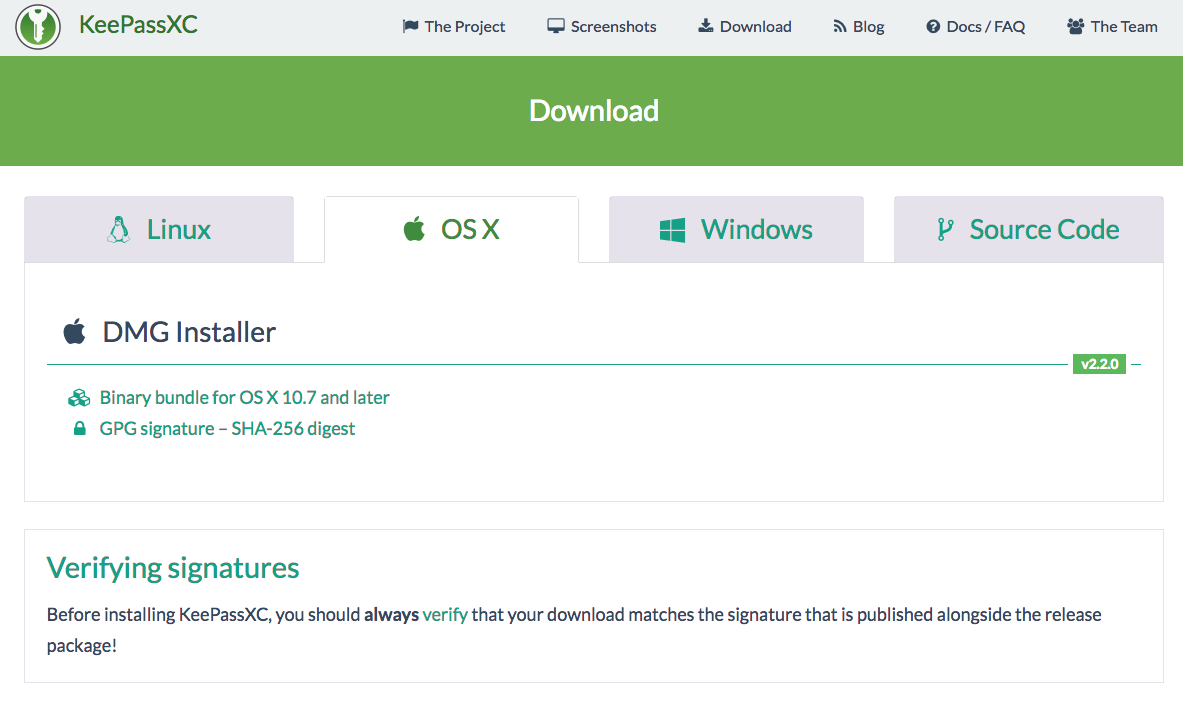
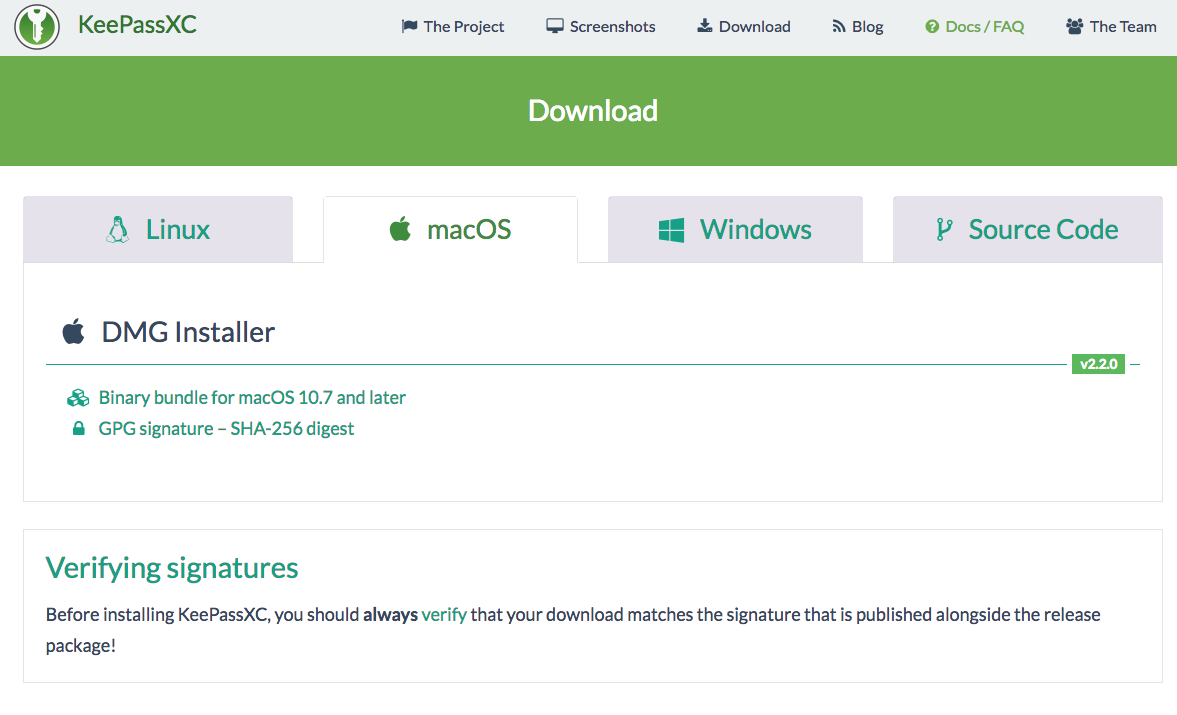
some changes to blog posts, plus updates a keepassxc screenshot

diff --git a/content/post/keepassxc-setup-guide.md b/content/post/keepassxc-setup-guide.md
@@ -11,7 +11,7 @@ draft = false
 
 [KeePassXC](https://keepassxc.org) is a cross-platform, modern open-source password manager. It is a community fork of [KeePassX](https://www.keepassx.org/), a native cross-platform port of [KeePass Password Safe](http://keepass.info/), with the goal to extend and improve it with new features and bug fixes.
 
-This is a basic guide of how to get started with KeePassXC. This guide is **for OS X / macOS users**, though note that KeePassXC is built to work with Linux and Windows as well, and this guide may be helpful for those users too. Note that I'm not a security expert or professional, so buyer beware from this point on. If you spot any errors or have any suggestions for this post, feel free to contact me via [Twitter](https://twitter.com/sts10) or [elsewhere](https://gist.github.com/sts10/4a4e01021b3a5ad42e9b73e0abd7b7e3).
+This is a basic guide of how to get started with KeePassXC. This guide is **for OS X / macOS users** (hereto referred to as "macOS"), though note that KeePassXC is built to work with Linux and Windows as well, and this guide may be helpful for those users too. Note that I'm not a security expert or professional, so buyer beware from this point on. If you spot any errors or have any suggestions for this post, feel free to contact me via [Twitter](https://twitter.com/sts10) or [elsewhere](https://gist.github.com/sts10/4a4e01021b3a5ad42e9b73e0abd7b7e3).
 
 (I'd like to note that I drew some inspiration and methodology from [Martin Shelton's "KeePass for Beginners" post](https://medium.com/@mshelton/keypass-for-beginners-dc8adfcdad54).)
 
@@ -21,9 +21,9 @@ This is a basic guide of how to get started with KeePassXC. This guide is **for 
 
 First, let's head over to the KeePassXC's [Download page](https://keepassxc.org/download).
 
-![KeePassXC Download page, with OS X selected](/img/keepassxc-download-page-screenshot.png)
+![KeePassXC Download page, with macOS selected](/img/keepassxc-download-page-screenshot.png)
 
-Select your desired operating system (the current options are Linux, OS X, and Windows), or to compile KeePassXC from source code. If we're using Mac (OS X), we'll go to the "OS X" tab and click the link labeled "Binary bundle for OS X 10.7 and later" to download the latest OS X release of KeePassXC to our computer.
+Select your desired operating system (the current options are Linux, macOS, and Windows), or to compile KeePassXC from source code. If we're using macOS, we'll go to the "macOS" tab and click the link labeled "Binary bundle for macOS 10.7 and later" to download the latest macOS release of KeePassXC to our computer.
 
 ### Verifying our Download
 
@@ -31,7 +31,7 @@ Before you install KeePassXC from this downloaded file, it is recommended that y
 
 You can learn how to verify your download on [the Verifying Signatures page](https://keepassxc.org/verifying-signatures) of the KeePassXC website.
 
-### Installing KeePassXC on mac OS/OS X
+### Installing KeePassXC on macOS
 
 Now that we're downloaded and verified our .dmg file, simply double click it to mount the disk image.  Next drag the KeePassXC icon into you Applications folder. 
 
@@ -61,7 +61,7 @@ When we launch KeePassXC for the first time, we're greeted with the screen above
 
 ![Save Database](/img/keepassxc-save-database-as.png)
 
-First, we're asked to choose a name and a location to save this database file we're creating. I created a new folder called "passwords" in my Documents folder, then I named my new database "my-passwords", but you can name it whatever you want. 
+First, we're asked to choose a name and a location to save this database file we're creating. I created a new folder called "passwords" in my Documents folder, then I named my new database "my-passwords" (the full file name will be `my-passwords.kdbx`), but you can name it whatever you want. 
 
 ![Setting master key](/img/keepassxc-entering-master-password.gif)
 
